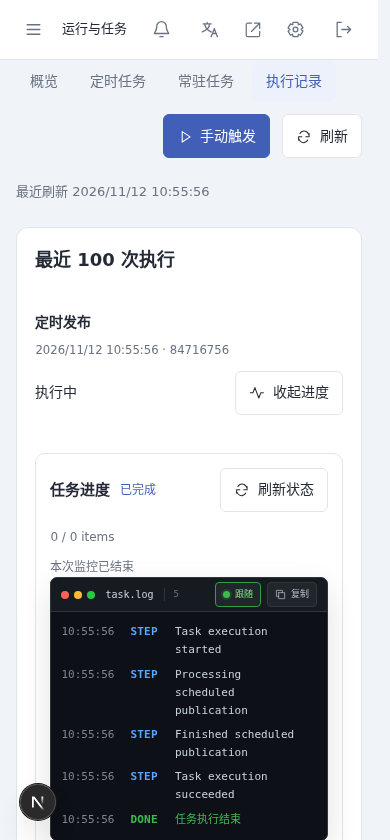
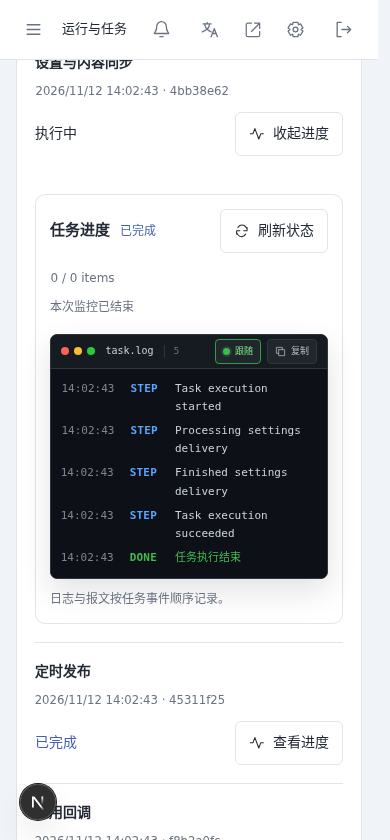
docs: record stable expanded runtime logs

diff --git a/docs/handoff/task-terminal-log-verification.md b/docs/handoff/task-terminal-log-verification.md
@@ -1,6 +1,6 @@
 # 共享伪终端日志验收
 
-版本：task-terminal-log-verification-2。日期：2026-11-12。
+版本：task-terminal-log-verification-3。日期：2026-11-12。
 
 ## 交付范围
 
@@ -11,6 +11,7 @@
 - 任务终态追加为最后一条日志：成功、失败、取消和结果未知分别显示`DONE/FAIL/STOP/UNKN`；即使没有新增事件，终态变化也会触发自动跟随。
 - 移除终端上方的收起和跟随按钮；自动跟随及复制并入标题栏右侧。复制包含业务日志和终态日志，并提供“已复制/复制失败”反馈。
 - 日志区最大高度360px，内容超出后只在终端内部纵向滚动。
+- 展开执行日志时暂停外层执行列表每5秒刷新；日志自身继续增量轮询。选中执行另存稳定快照，被最近100条挤出后仍保持展开；状态说明与终端间距为16px。
 - 运行记录、手动任务和邮件测试继续复用同一个`TaskProgressPanel`，没有创建第二套日志界面。
 
 ## 检查
@@ -19,6 +20,7 @@
 - 实际后台打开执行记录：4条业务日志序号严格递增，末尾追加绿色`DONE 任务执行结束`，标题栏只有跟随和复制两个按钮，自动跟随默认`aria-pressed=true`。
 - 强制将日志区缩至可滚动高度后上滚，自动跟随切换为暂停；点击恢复后重新到达底部。
 - 点击复制得到5行文本，包含序号、时间、`STEP`消息和最终`DONE`日志；按钮短暂显示“已复制”。运行日志区的计算最大高度为360px，`overflow-y=auto`。
+- 展开日志后连续观察4个5.2秒刷新周期，终端节点和展开状态始终存在、日志仍为5条；期间`/v1/admin/runtime`外层列表请求为0，任务日志hook不受影响。
 - 1440px和390px实页无横向溢出或`pageerror`；移动端保持等宽终端布局并隐藏序号列以保留消息宽度。
 
 ## 证据

diff --git a/docs/development/task-progress.md b/docs/development/task-progress.md
@@ -1,6 +1,6 @@
 # 统一任务进度与持续监控
 
-版本：task-progress-3；2026-11-12。用于 Worker/后台任务的进度与增量日志；当前实现与检查结果见[伪终端日志验收](../handoff/task-terminal-log-verification.md)。
+版本：task-progress-4；2026-11-12。用于 Worker/后台任务的进度与增量日志；当前实现与检查结果见[伪终端日志验收](../handoff/task-terminal-log-verification.md)。
 
 ## 统一口径
 
@@ -52,6 +52,8 @@ async def refresh(config):
 任务终态本身也追加为最后一条终端日志：成功显示绿色`DONE 任务执行结束`，失败显示红色`FAIL`，取消和结果未知显示黄色警告行。终态行使用任务结束时间，即使没有新增业务事件，也会触发自动跟随滚到最底部。
 
 终端上方不保留独立的展开/跟随按钮。自动跟随和复制位于终端标题栏右侧；复制内容包含全部事件的序号、时间、等级、消息和终态行，优先使用Clipboard API并在不可用时回退到文本选择复制。日志区最大高度为360px，内容超出后只在终端内部出现纵向滚动条。
+
+“运行与任务”的执行列表每5秒刷新外层概览。某条执行展开查看时暂停该外层轮询，只有共享任务进度hook继续增量读取日志；收起后恢复列表轮询。选中的执行对象另存为稳定快照，即使它被最近100条挤出，也继续显示“当前查看”记录和日志，不会自动收起或与其他执行合并。状态说明与终端之间保留16px间距。
 
 ## 邮件报文
 

diff --git a/docs/handoff/STATUS.md b/docs/handoff/STATUS.md
@@ -3,9 +3,10 @@
 ## 最新交付：共享伪终端日志（2026-11-12）
 
 - 运行记录、手动任务和邮件测试共用的`TaskProgressPanel`改为深色伪终端：窗口栏、序号、时间、等级短标签和等宽输出。
-- 移除终端上方按钮；自动跟随和复制并入标题栏。复制包含完整业务日志与终态行，日志区最高360px并只在内部滚动。
+- 移除终端上方按钮；自动跟随和复制并入标题栏。复制包含完整业务日志与终态行，日志区最高360px并只在内部滚动；状态说明与终端间距增至16px。
 - 日志强制按sequence升序，最新一条在底部；`STEP/REQ/RES/WARN/ERR/DONE`分级着色，默认开启自动跟随。用户上滚后暂停，回到底部或点击恢复后继续；任务成功、失败、取消或未知都以最终日志行显示。
 - 实际后台4条业务日志后追加绿色`DONE 任务执行结束`，标题栏按钮、复制内容、默认跟随和暂停/恢复通过；1440px/390px无溢出或`pageerror`。完整`npm run check`376项通过。
+- 展开日志时暂停外层执行列表5秒轮询；连续4个刷新周期中终端和展开状态保持，外层`/v1/admin/runtime`请求为0；选中执行被最近100条挤出时仍以快照保留。
 - 仅前端代码与双仓共享文档变化，未push；临时QA会话已撤销。详见[验收](task-terminal-log-verification.md)。
 
 ## 最新修复：放弃修改后不再整页刷新（2026-11-12）

diff --git a/docs/README.md b/docs/README.md
@@ -1,6 +1,6 @@
 # Everunfold 文档入口
 
-[共享伪终端日志](handoff/task-terminal-log-verification.md)：运行记录、手动任务和邮件测试统一使用深色伪终端；日志按序号升序、最新在底部，按阶段/请求/响应/警告/错误/终态着色。自动跟随与复制位于标题栏，日志区超过360px后在终端内部滚动。
+[共享伪终端日志](handoff/task-terminal-log-verification.md)：运行记录、手动任务和邮件测试统一使用深色伪终端；日志按序号升序、最新在底部，按阶段/请求/响应/警告/错误/终态着色。自动跟随与复制位于标题栏，日志区超过360px后在终端内部滚动；展开日志时暂停外层执行列表刷新。
 
 [放弃修改后的客户端导航](handoff/unsaved-leave-client-navigation-verification.md)：未保存确认退场后，同源站内目标使用 Next.js 客户端导航，不再刷新整页；跨域目标保留浏览器文档导航。账号中心与普通后台页面共用该规则。
 
